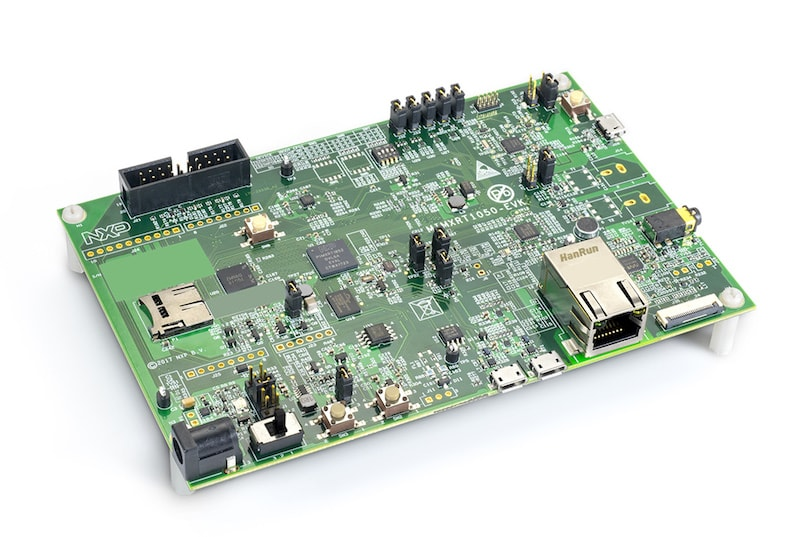
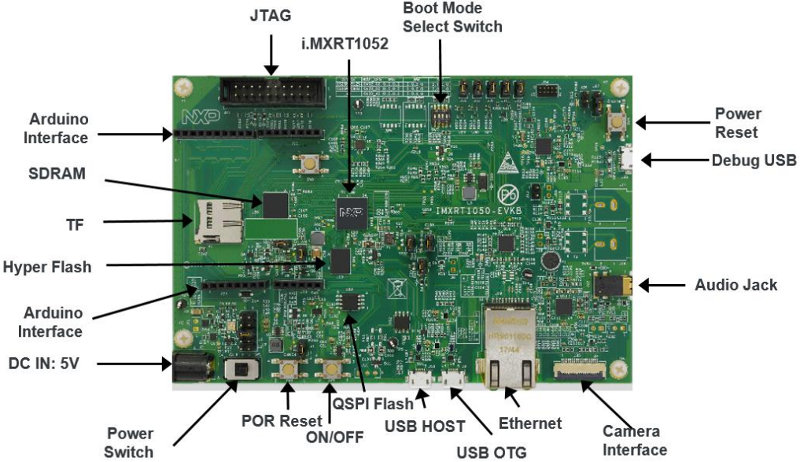
boards: mimxrt1050_evk: Elaborate doc to be more user-facing
1. Change "just the image" of the board with the image which shows
component location (taken from user guide PDF). This is especially
useful, as the board doesn't have descriptive silkscreen labels,
only component numberings, e.g. there're 3 microUSB connectors
labeled just Jxx, Jyy, Jzz.
2. Mention more MCU features useful to a user.
3. Elaborate the "Memory" section, to describe memory structure to
provide complete enough picture to a user.
4. Explicitly mention that the board (currently) doesn't have any
means to program flash, and the only way to run apps is by running
them via debugger.
5. Explicitly mention that a fresh board received requires installing
different USB bootloader firmware.
6. Standardize on referring to "ninja" as a build tool, as the rest
of the docs does.
7. Other minor changes and clarifications.

diff --git a/boards/arm/mimxrt1050_evk/doc/mimxrt1050_evk.rst b/boards/arm/mimxrt1050_evk/doc/mimxrt1050_evk.rst
@@ -26,13 +26,17 @@ MIMXRT1050-EVKB board, refer to `Board Revisions`_ section.
 Hardware
 ********
 
-- MIMXRT1052DVL6A MCU (600 MHz, 512 KB TCM)
+- MIMXRT1052DVL6A MCU (Cortex-M7, 600 MHz, 32KB ICache/32KB DCache, MPU,
+  VFPv5 FPU, Crypto Engine)
 
 - Memory
 
-  - 256 KB SDRAM
-  - 64 Mbit QSPI Flash
-  - 512 Mbit Hyper Flash
+  - 512 KByte MCU-internal SRAM
+  - 32 MByte external SDRAM (166MHz)
+  - 8 MByte external QSPI Flash
+  - 64 MByte external Hyper Flash
+  - 96 KByte MCU BootROM for loading application from external memory
+  - No internal Flash in MCU
 
 - Display
 
@@ -57,16 +61,17 @@ Hardware
 - Power
 
   - 5 V DC jack
+  - Can be powered using USB
 
 - Debug
 
   - JTAG 20-pin connector
-  - OpenSDA with DAPLink
+  - OpenSDA with DAPLink over USB (J28 on board)
 
 - Sensor
 
   - FXOS8700CQ 6-axis e-compass
-  - CMOS camera sensor interface
+  - CMOS camera sensor interface (Parallel CSI)
 
 - Expansion port
 
@@ -190,14 +195,23 @@ remaining are not used.
 Programming and Debugging
 *************************
 
+**NOTE:** MCU on this board lacks builtin Flash memory. Programming external
+Flash memory using Zephyr tools is not yet supported. The way to get an
+application running is starting it in debug mode using ``ninja debug`` (see
+below).
+
 The MIMXRT1050-EVK includes the :ref:`nxp_opensda` serial and debug adapter
 built into the board to provide debugging, flash programming, and serial
 communication over USB.
 
+The board comes pre-programmed with mbedRTOS compatible bootloader firmware,
+this bootloader is not yet supported by Zephyr. Instead, Segger J-Link firmware
+should be installed to start with Zephyr development.
+
 To use the Segger J-Link tools with OpenSDA, follow the instructions in the
 :ref:`nxp_opensda_jlink` page using the `Segger J-Link OpenSDA V2.1 Firmware`_.
 The Segger J-Link tools are the default for this board, therefore it is not
-necessary to set ``OPENSDA_FW=jlink`` explicitly when you invoke ``make
+necessary to set ``OPENSDA_FW=jlink`` explicitly when you invoke ``ninja
 debug``.
 
 With these mechanisms, applications for the ``mimxrt1050_evk`` board
@@ -229,7 +243,7 @@ Board Revisions
 ***************
 
 The original MIMXRT1050-EVK (rev A0) board was updated with a newer
-MIMXRT1050-EVKB (rev A1) board, with these major hardware differences::
+MIMXRT1050-EVKB (rev A1) board, with these major hardware differences:
 
 - SoC changed from MIMXRT1052DVL6**A** to MIMXRT1052DVL6**B**
 - Hardware bug fixes for: power, interfaces, and memory
